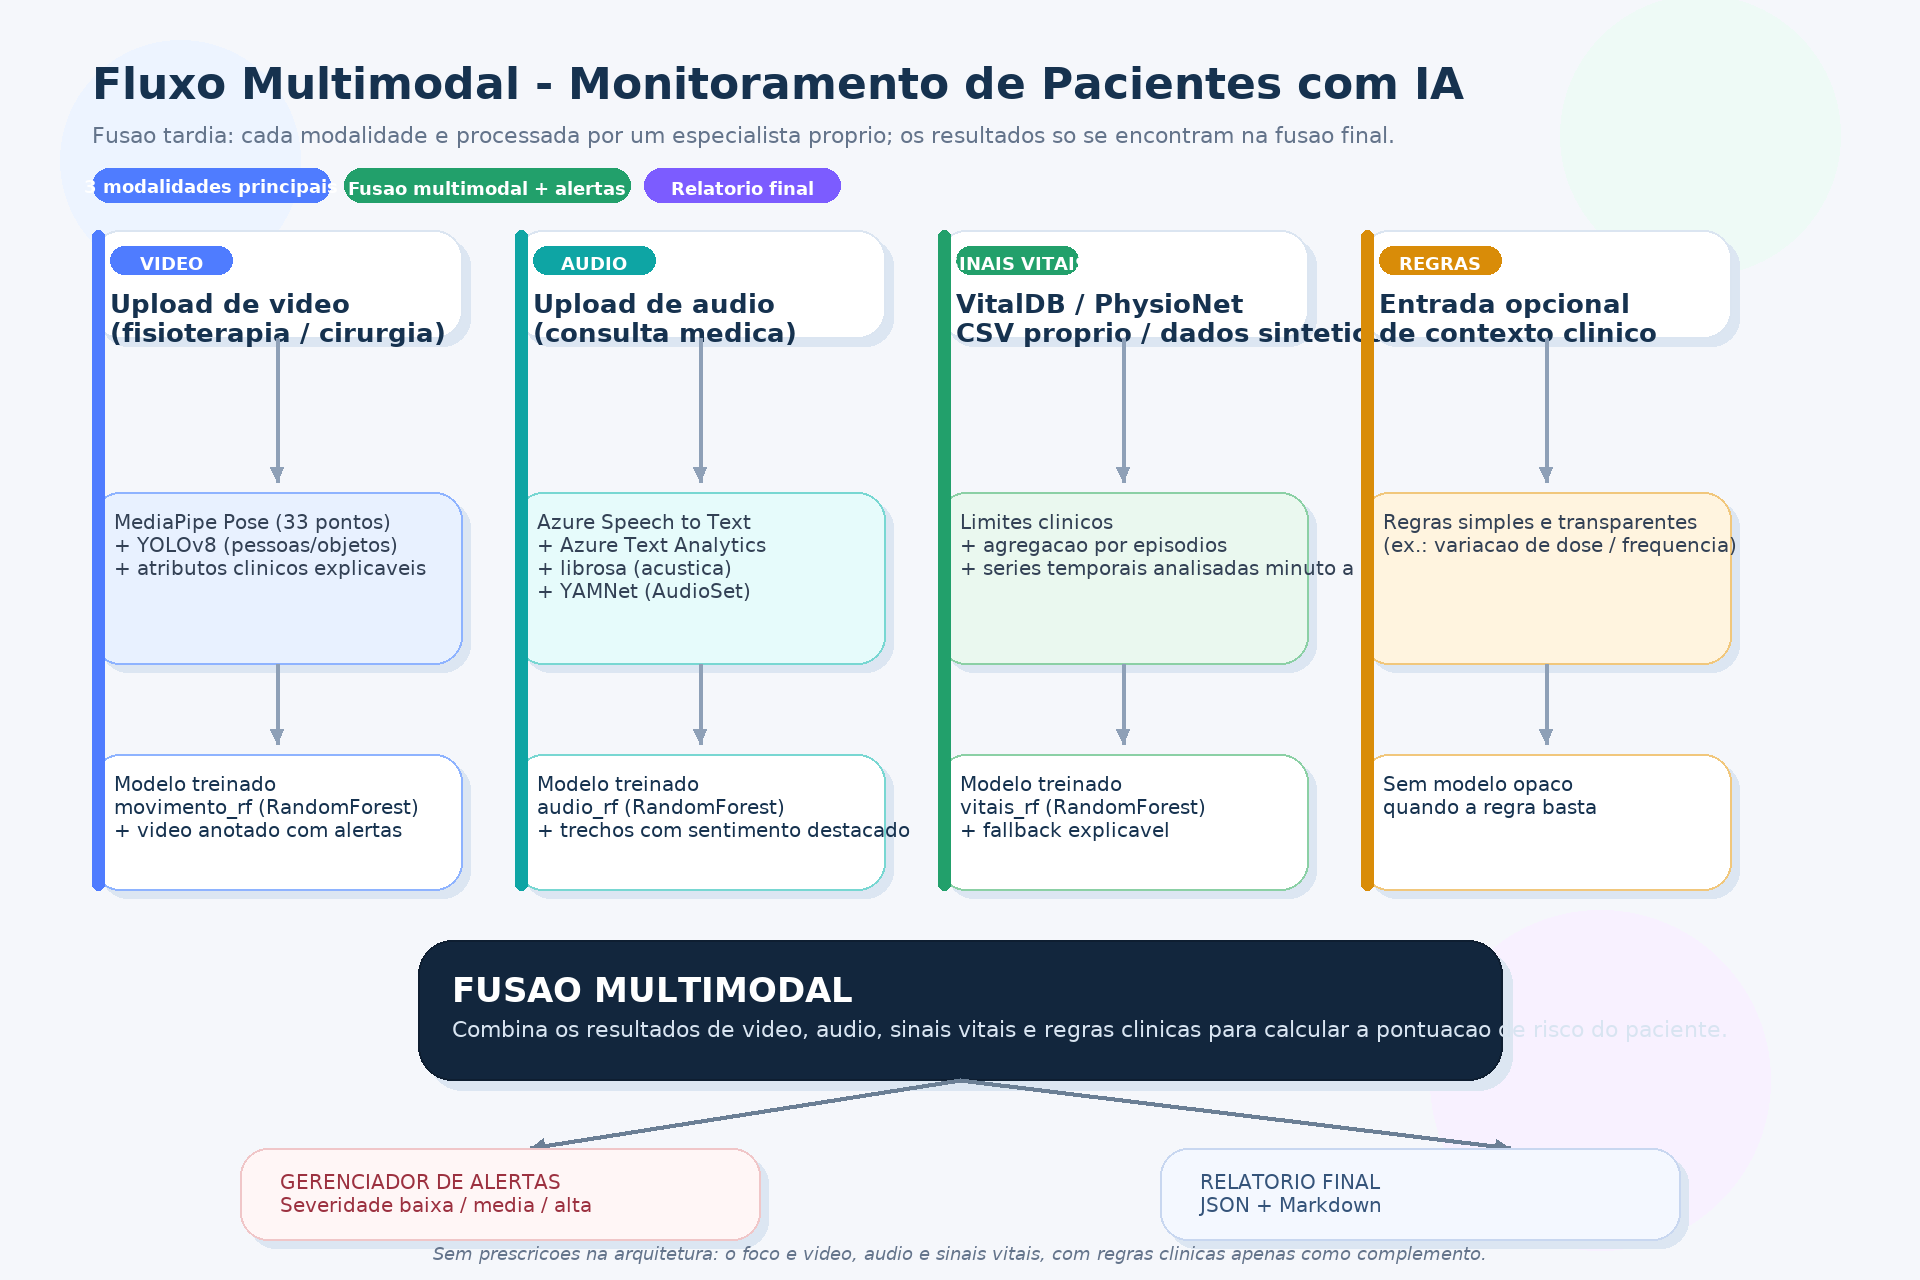
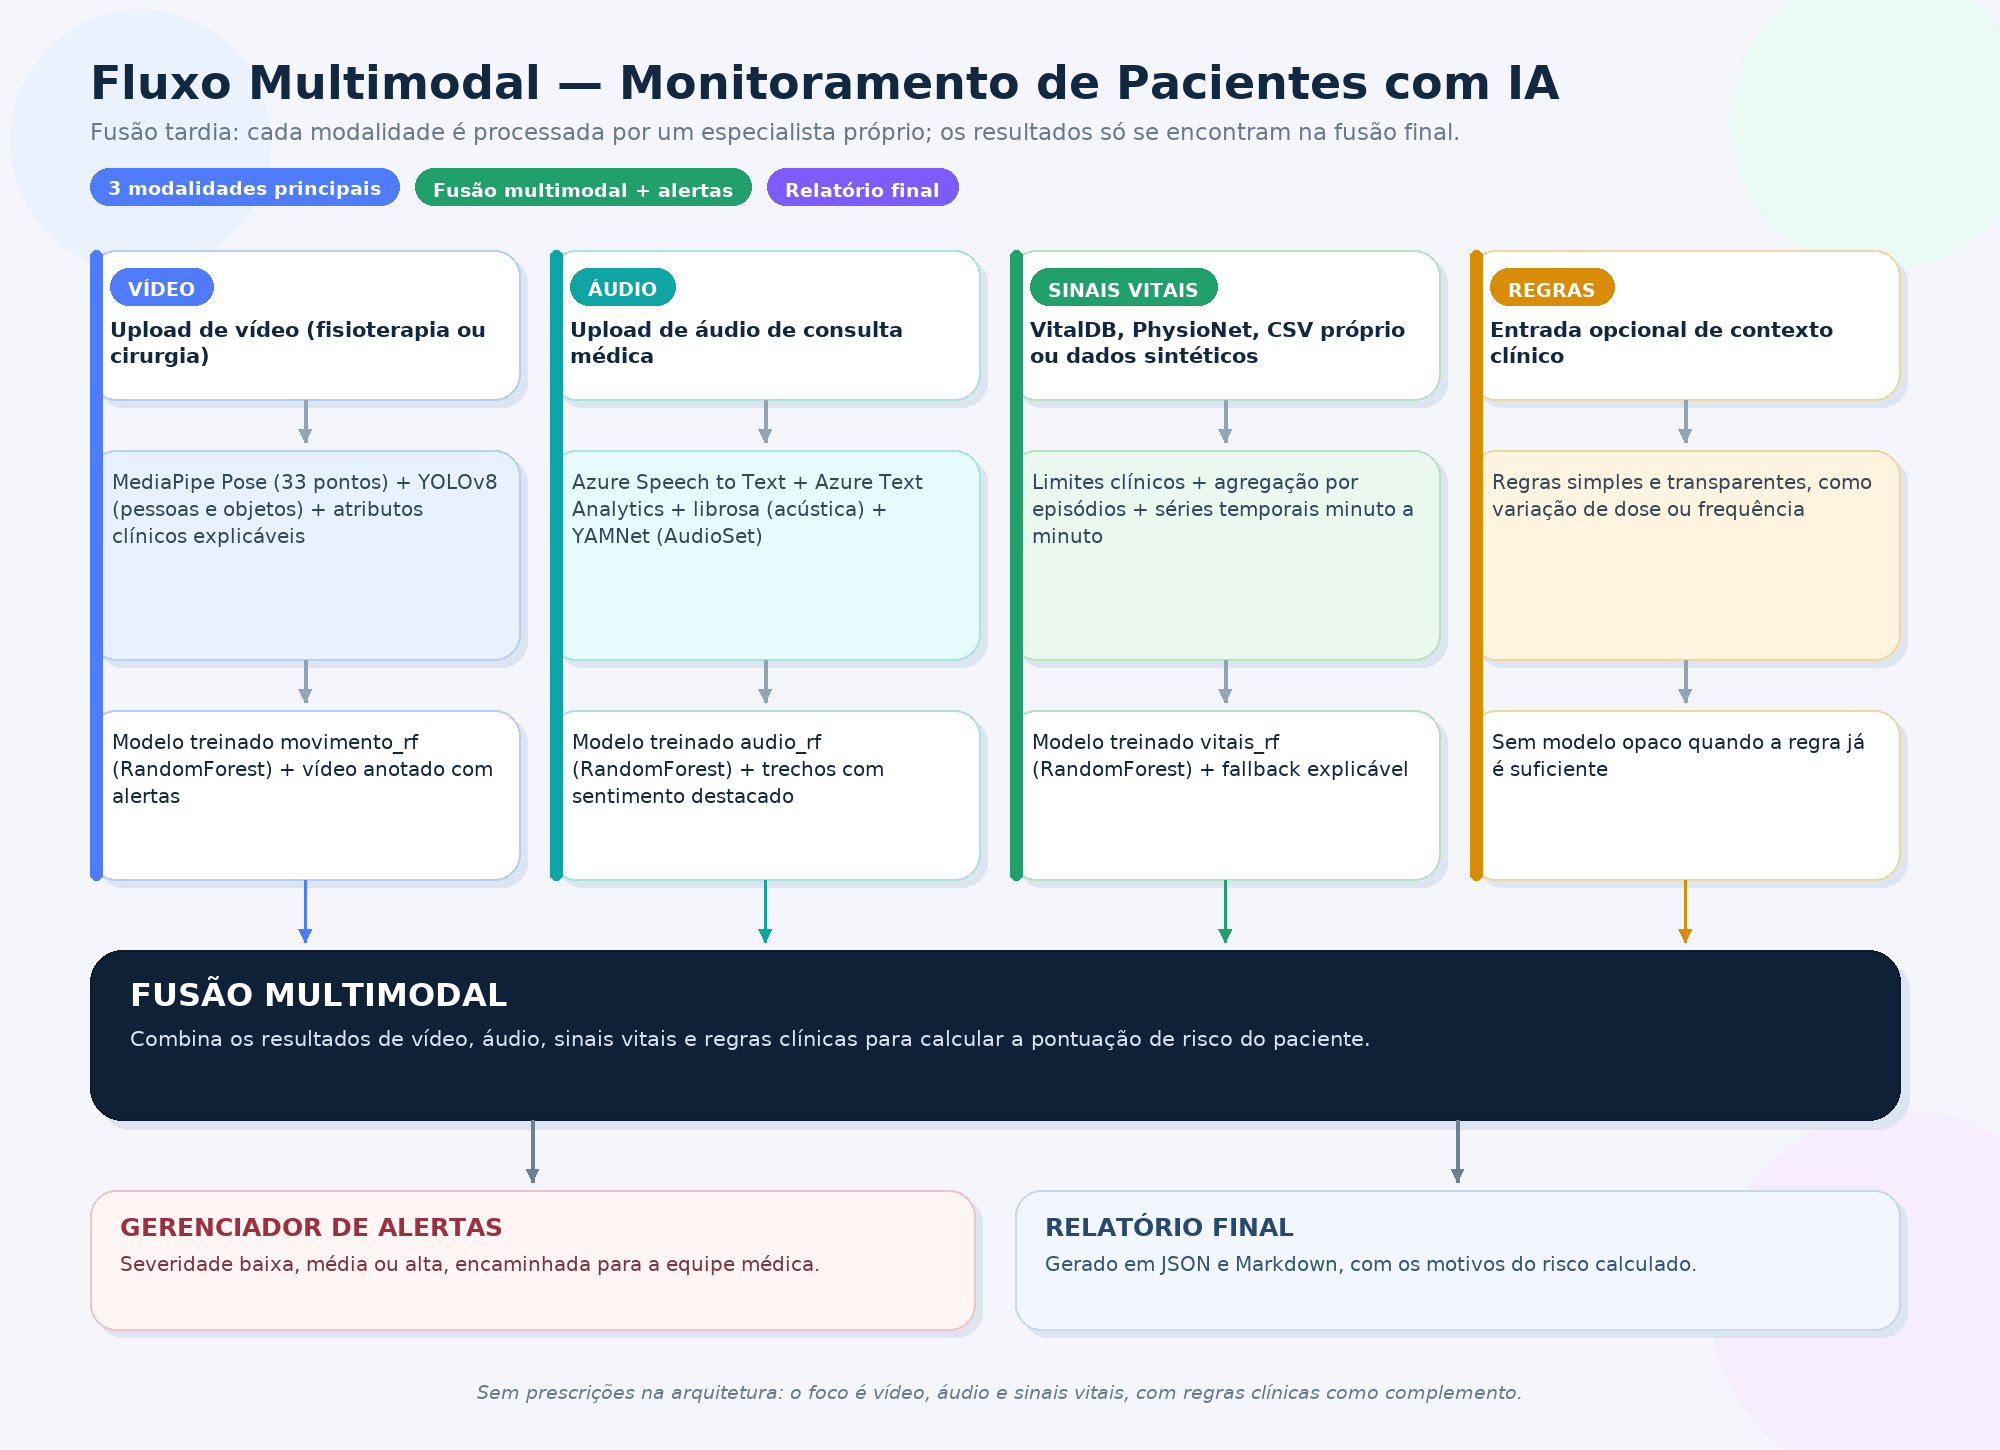
Add script to generate architecture flow image for README

diff --git a/docs/gerar_fluxo_arquitetura.py b/docs/gerar_fluxo_arquitetura.py
@@ -1,0 +1,223 @@
+"""Gera a imagem docs/fluxo_arquitetura.png usada no README.
+
+Roda com: python docs/gerar_fluxo_arquitetura.py
+Requer Pillow e matplotlib (já estão em requirements.txt / requirements-optional.txt).
+"""
+
+import math
+from pathlib import Path
+
+from matplotlib import font_manager
+from PIL import Image, ImageDraw, ImageFont
+
+FONT_REGULAR = font_manager.findfont("DejaVu Sans")
+FONT_BOLD = font_manager.findfont("DejaVu Sans:weight=bold")
+FONT_ITALIC = font_manager.findfont("DejaVu Sans:style=italic")
+
+
+def load(path: str, size: int) -> ImageFont.FreeTypeFont:
+    return ImageFont.truetype(path, size)
+
+
+W, H = 2000, 1450
+img = Image.new("RGB", (W, H), "#f4f6fb")
+draw = ImageDraw.Draw(img)
+
+for cx, cy, r, color in [
+    (140, 140, 130, "#eaf1ff"),
+    (1880, 120, 150, "#eafbf6"),
+    (1900, 1300, 190, "#f6eeff"),
+]:
+    draw.ellipse((cx - r, cy - r, cx + r, cy + r), fill=color)
+
+NAVY = "#122841"
+SLATE = "#33475b"
+MUTED = "#69788d"
+WHITE = "#ffffff"
+SHADOW = "#dde5f0"
+
+
+def wrap_lines(text: str, font: ImageFont.FreeTypeFont, max_width: int) -> str:
+    words = text.split()
+    lines: list[str] = []
+    current = ""
+    for word in words:
+        trial = f"{current} {word}".strip()
+        if draw.textlength(trial, font=font) <= max_width:
+            current = trial
+        else:
+            if current:
+                lines.append(current)
+            current = word
+    if current:
+        lines.append(current)
+    return "\n".join(lines)
+
+
+def rounded(xy, fill, outline=None, width=2, radius=26):
+    draw.rounded_rectangle(xy, radius=radius, fill=fill, outline=outline, width=width)
+
+
+def card(x, y, w, h, fill, outline, radius=26, offset=7):
+    rounded((x + offset, y + offset, x + w + offset, y + h + offset), SHADOW, radius=radius)
+    rounded((x, y, x + w, y + h), fill, outline, width=2, radius=radius)
+
+
+def text_center(x, y, w, h, text, font, fill, spacing=6):
+    bbox = draw.multiline_textbbox((0, 0), text, font=font, spacing=spacing, align="center")
+    tw, th = bbox[2] - bbox[0], bbox[3] - bbox[1]
+    draw.multiline_text((x + (w - tw) / 2, y + (h - th) / 2), text, font=font, fill=fill, spacing=spacing, align="center")
+
+
+def text_left(x, y, text, font, fill, spacing=6):
+    draw.multiline_text((x, y), text, font=font, fill=fill, spacing=spacing)
+
+
+def pill(x, y, text, font, bg, fg=WHITE, pad_x=18, pad_y=9):
+    tw = draw.textlength(text, font=font)
+    th = font.size
+    w = tw + pad_x * 2
+    h = th + pad_y * 2
+    rounded((x, y, x + w, y + h), bg, radius=999)
+    text_center(x, y, w, h, text, font, fg, spacing=0)
+    return w, h
+
+
+def arrow(p1, p2, color, width=4, head=14):
+    draw.line((p1, p2), fill=color, width=width)
+    ang = math.atan2(p2[1] - p1[1], p2[0] - p1[0])
+    a = (p2[0] - head * math.cos(ang - math.pi / 7), p2[1] - head * math.sin(ang - math.pi / 7))
+    b = (p2[0] - head * math.cos(ang + math.pi / 7), p2[1] - head * math.sin(ang + math.pi / 7))
+    draw.polygon([p2, a, b], fill=color)
+
+
+title_font = load(FONT_BOLD, 46)
+subtitle_font = load(FONT_REGULAR, 23)
+pill_font = load(FONT_BOLD, 19)
+col_title_font = load(FONT_BOLD, 21)
+box_title_font = load(FONT_BOLD, 25)
+box_body_font = load(FONT_REGULAR, 20)
+footer_font = load(FONT_ITALIC, 19)
+fusion_title_font = load(FONT_BOLD, 32)
+fusion_body_font = load(FONT_REGULAR, 21)
+
+text_left(90, 56, "Fluxo Multimodal — Monitoramento de Pacientes com IA", title_font, NAVY)
+text_left(
+    90, 118,
+    "Fusão tardia: cada modalidade é processada por um especialista próprio; os resultados só se encontram na fusão final.",
+    subtitle_font, MUTED,
+)
+
+px = 90
+for label, color in [
+    ("3 modalidades principais", "#4f7cff"),
+    ("Fusão multimodal + alertas", "#22a06b"),
+    ("Relatório final", "#7c5cff"),
+]:
+    pw, ph = pill(px, 168, label, pill_font, color)
+    px += pw + 16
+
+columns = [
+    dict(
+        title="VÍDEO", accent="#4f7cff", fill="#e8f1ff", border="#b7cdfa",
+        top="Upload de vídeo (fisioterapia ou cirurgia)",
+        mid="MediaPipe Pose (33 pontos) + YOLOv8 (pessoas e objetos) + atributos clínicos explicáveis",
+        bot="Modelo treinado movimento_rf (RandomForest) + vídeo anotado com alertas",
+    ),
+    dict(
+        title="ÁUDIO", accent="#0ea5a4", fill="#e6fbfb", border="#a9e4e1",
+        top="Upload de áudio de consulta médica",
+        mid="Azure Speech to Text + Azure Text Analytics + librosa (acústica) + YAMNet (AudioSet)",
+        bot="Modelo treinado audio_rf (RandomForest) + trechos com sentimento destacado",
+    ),
+    dict(
+        title="SINAIS VITAIS", accent="#22a06b", fill="#eaf8ef", border="#b7e2c4",
+        top="VitalDB, PhysioNet, CSV próprio ou dados sintéticos",
+        mid="Limites clínicos + agregação por episódios + séries temporais minuto a minuto",
+        bot="Modelo treinado vitais_rf (RandomForest) + fallback explicável",
+    ),
+    dict(
+        title="REGRAS", accent="#d98c08", fill="#fff4df", border="#f0d69f",
+        top="Entrada opcional de contexto clínico",
+        mid="Regras simples e transparentes, como variação de dose ou frequência",
+        bot="Sem modelo opaco quando a regra já é suficiente",
+    ),
+]
+
+col_w = 430
+gap = 30
+start_x = 90
+stage1_y, stage1_h = 250, 150
+stage2_y, stage2_h = stage1_y + stage1_h + 50, 210
+stage3_y, stage3_h = stage2_y + stage2_h + 50, 170
+
+for i, c in enumerate(columns):
+    x = start_x + i * (col_w + gap)
+
+    card(x, stage1_y, col_w, stage1_h, WHITE, c["border"])
+    pw, ph = pill(x + 20, stage1_y + 18, c["title"], pill_font, c["accent"])
+    wrapped_top = wrap_lines(c["top"], col_title_font, col_w - 40)
+    text_left(x + 20, stage1_y + 18 + ph + 12, wrapped_top, col_title_font, NAVY)
+
+    card(x, stage2_y, col_w, stage2_h, c["fill"], c["border"])
+    wrapped_mid = wrap_lines(c["mid"], box_body_font, col_w - 44)
+    text_left(x + 22, stage2_y + 20, wrapped_mid, box_body_font, SLATE, spacing=8)
+
+    card(x, stage3_y, col_w, stage3_h, WHITE, c["border"])
+    wrapped_bot = wrap_lines(c["bot"], box_body_font, col_w - 44)
+    text_left(x + 22, stage3_y + 20, wrapped_bot, box_body_font, NAVY, spacing=8)
+
+    draw.rounded_rectangle((x, stage1_y, x + 12, stage3_y + stage3_h), radius=6, fill=c["accent"])
+
+    cx = x + col_w / 2
+    arrow((cx, stage1_y + stage1_h), (cx, stage2_y - 8), "#93a4b8", 4)
+    arrow((cx, stage2_y + stage2_h), (cx, stage3_y - 8), "#93a4b8", 4)
+
+fusion_y, fusion_h = stage3_y + stage3_h + 70, 170
+fusion_w = col_w * 4 + gap * 3
+fusion_x = start_x
+card(fusion_x, fusion_y, fusion_w, fusion_h, "#0f2136", "#0c1c2d", radius=32, offset=9)
+text_left(fusion_x + 40, fusion_y + 26, "FUSÃO MULTIMODAL", fusion_title_font, WHITE)
+wrapped_fusion = wrap_lines(
+    "Combina os resultados de vídeo, áudio, sinais vitais e regras clínicas para calcular a pontuação de risco do paciente.",
+    fusion_body_font, fusion_w - 80,
+)
+text_left(fusion_x + 40, fusion_y + 76, wrapped_fusion, fusion_body_font, "#d7e3f0", spacing=8)
+
+for i, c in enumerate(columns):
+    x = start_x + i * (col_w + gap) + col_w / 2
+    arrow((x, stage3_y + stage3_h), (x, fusion_y - 8), c["accent"], 3)
+
+alert_y, alert_h = fusion_y + fusion_h + 70, 140
+box_w = (fusion_w - 40) / 2
+
+box1_cx = fusion_x + box_w / 2
+box2_cx = fusion_x + box_w + 40 + box_w / 2
+
+card(fusion_x, alert_y, box_w, alert_h, "#fff5f5", "#f2c3c8")
+text_left(fusion_x + 30, alert_y + 22, "GERENCIADOR DE ALERTAS", box_title_font, "#9c2f40")
+wrapped_alert = wrap_lines(
+    "Severidade baixa, média ou alta, encaminhada para a equipe médica.", box_body_font, box_w - 60,
+)
+text_left(fusion_x + 30, alert_y + 62, wrapped_alert, box_body_font, "#7a3540", spacing=6)
+
+card(fusion_x + box_w + 40, alert_y, box_w, alert_h, "#f2f7ff", "#c7d8f2")
+text_left(fusion_x + box_w + 70, alert_y + 22, "RELATÓRIO FINAL", box_title_font, "#28486d")
+wrapped_report = wrap_lines(
+    "Gerado em JSON e Markdown, com os motivos do risco calculado.", box_body_font, box_w - 60,
+)
+text_left(fusion_x + box_w + 70, alert_y + 62, wrapped_report, box_body_font, "#365577", spacing=6)
+
+arrow((box1_cx, fusion_y + fusion_h), (box1_cx, alert_y - 8), "#6c7f93", 4)
+arrow((box2_cx, fusion_y + fusion_h), (box2_cx, alert_y - 8), "#6c7f93", 4)
+
+footer_y = alert_y + alert_h + 46
+text_center(
+    0, footer_y, W, 30,
+    "Sem prescrições na arquitetura: o foco é vídeo, áudio e sinais vitais, com regras clínicas como complemento.",
+    footer_font, MUTED,
+)
+
+out = Path(__file__).resolve().parent / "fluxo_arquitetura.png"
+img.save(out)
+print(out)
